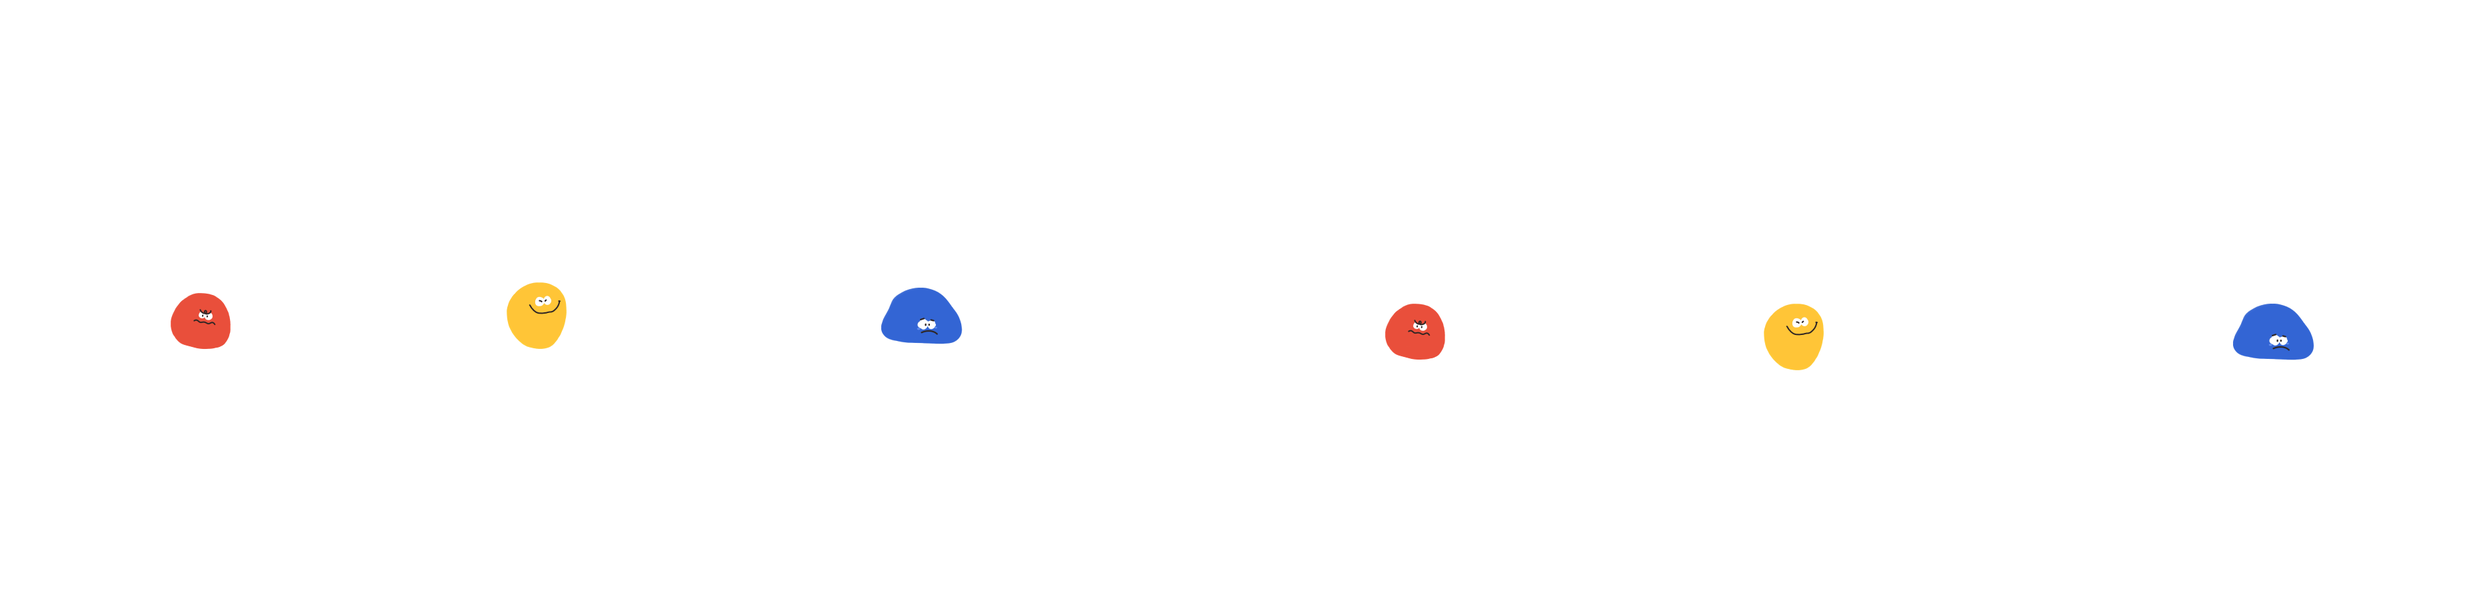
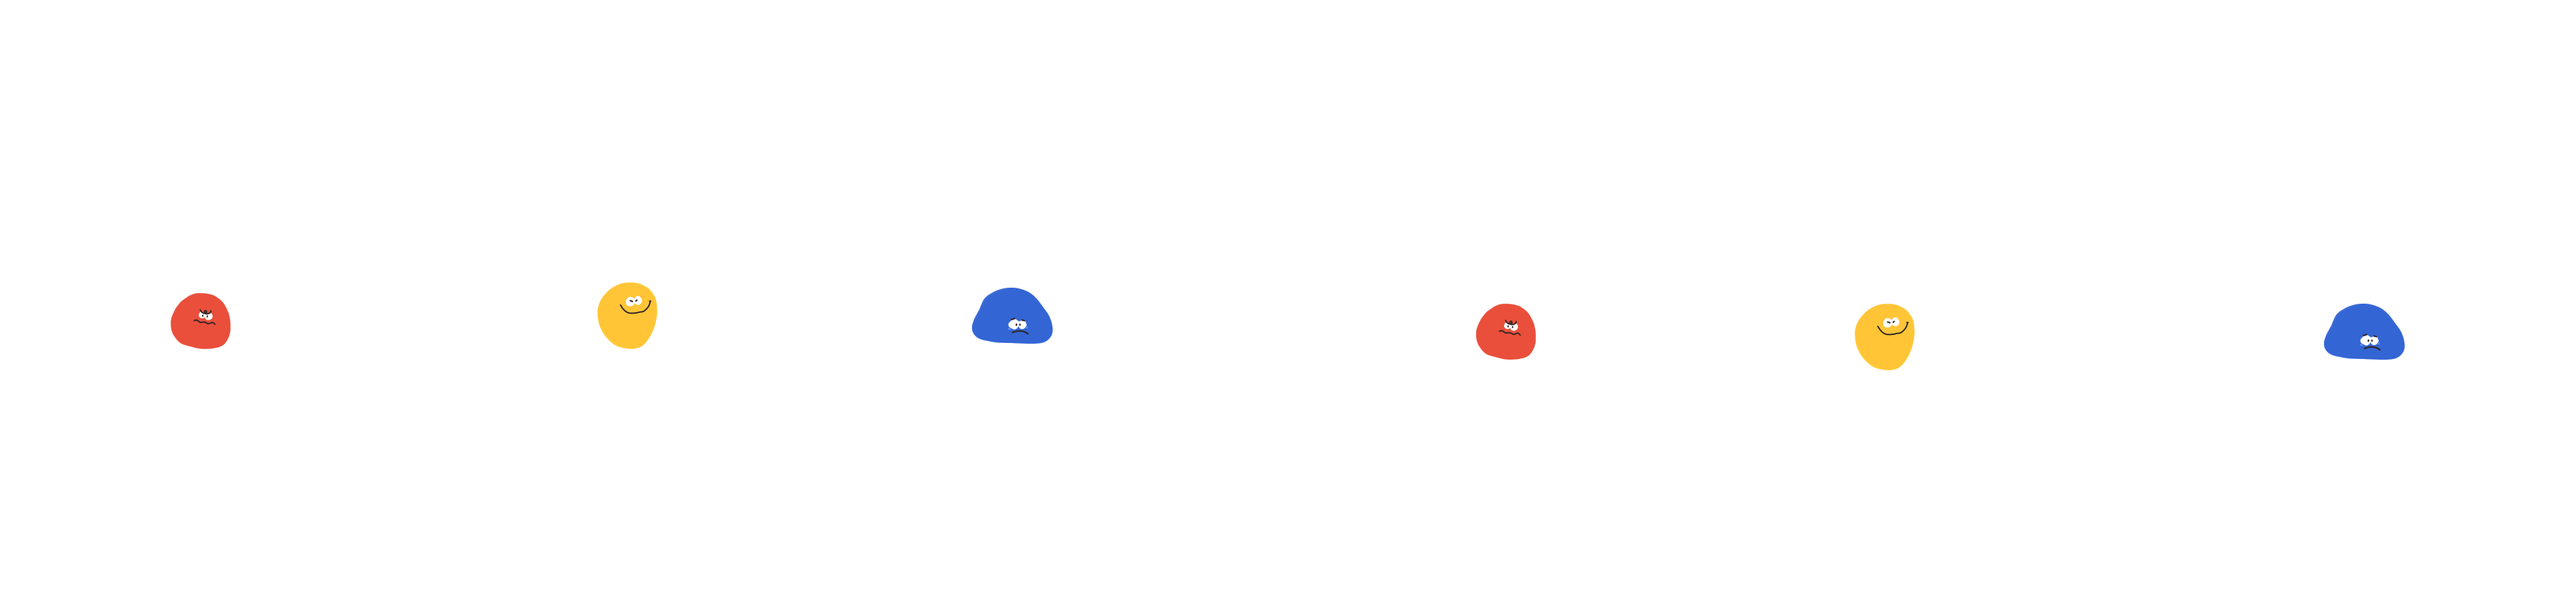
design: 반응형 웹 css 위치 변경 추가

diff --git a/scy/css/index.css b/scy/css/index.css
@@ -1,7 +1,9 @@
+@import url('https://fonts.googleapis.com/css2?family=Ysabeau+Office:wght@400;500;600;700;800;900;1000&display=swap');
 * {
     padding:0;
     margin:0;
     box-sizing: border-box;
+    font-family: 'Ysabeau Office', sans-serif;
 }
 
 body {
@@ -47,34 +49,35 @@ body {
 
 #pleasure{
     position: absolute;
-    left: 33%;
+    left: 33vw;
     top: 29%;
     z-index: 3;
 }
 
 #angry {
     position: absolute;
-    right: 38%;
+    right: 34vw;
     top: 29%;
     z-index: 2;
 }
 
 #happy {
     position: absolute;
-    left: 27%;
+    left: 27vw;
     top: 46%;
     z-index: 6;
 }
 
 #sad {
     position: absolute;
-    right: 31%;
-    top: 47%;
+    right: 28vw;
+    top: 46%;
+    /* top: 60vh; */
     z-index: 4;
 }
 #proud {
     position: absolute;
-    left: 40%;
+    left: 39vw;
     top: 56%;
     z-index: 5;
 }
@@ -87,23 +90,23 @@ body {
     margin: 0;
     border-radius: 10px;
     left: 25%;
-    top: 43%;
+    top: 45%;
     z-index: 10;
-    animation: start 12s linear 1;
+    animation: start 12s linear 1; 
 }
 
 .start img {
     position: absolute;
     width: 80vh;
     height: auto;
-    left: 6%;
+    left: 2vw;
     top: -15%;
 }
 
 .loading-box {
     position: absolute;
-    left: 29%;
-    top: 37%;
+    left: 28vw;
+    top: 47vh;
     z-index: 9;
 }
 
@@ -124,7 +127,8 @@ body {
     font-size: 35px;
     font-weight: 600;
     line-height: 1.3333;
-    color: rgb(79, 79, 79);
+    /* color: rgb(119, 119, 119); */
+    color: rgb(35, 35, 35);
     animation-name: flicker;
     animation-duration: 1500ms;
     animation-iteration-count: infinite;
@@ -136,7 +140,8 @@ body {
     width: 250px;
     height: 20px;
     border-radius: 100px;
-    background-color: rgb(201, 201, 201);
+    /* background-color: rgb(201, 201, 201); */
+    background-color: #FFE8A3;
     overflow: hidden;
 }
 
@@ -147,7 +152,8 @@ body {
     width: 20px;
     height: 20px;
     border-radius: 100px;
-    background-color: #FFE8A3;
+
+    background-color: rgb(171, 213, 226);
     animation-name: loading-bar;
     animation-duration: 5s;
     animation-iteration-count: infinite;
@@ -237,6 +243,66 @@ body {
     }
 }
 
+@media screen and (min-width: 1500px){
+    .start img{
+        left: 4vw;
+        top: -15%;
+    }
+    
+}
+
+@media screen and (min-width: 1500px){
+    #pleasure{
+        left: 35vw;
+        top: 29%;
+    }
+    
+}
+
+@media screen and (min-width: 1500px){
+    #angry{
+        left: 45vw;
+        top: 29%;
+    }
+    
+}
+@media screen and (min-width: 1500px){
+    #sad{
+        left: 49vw;
+        top: 44%;
+    }
+    
+}
+
+@media screen and (min-width: 1500px){
+    #happy{
+        left: 31vw;
+        top: 44%;
+    }
+}
+
+@media screen and (min-width: 1500px){
+    #proud{
+        left: 40vw;
+        top: 54%;
+    }
+}
+
+@media screen and (min-width: 1500px){
+    .loading-box {
+        left: 32vw;
+        top: 40%;
+    }
+
+}
+
+@media screen and (max-width: 768px){
+    .box {
+        top: 50%;
+    }
+    
+}
+
 @media screen and (max-width: 768px){
     #pleasure{
     left: 40%;
@@ -272,7 +338,7 @@ body {
 @media screen and (max-width: 768px){
     #happy{
         left: 34%;
-        top: 47%;
+        top: 45%;
         z-index: 6;
     }
 }
@@ -287,10 +353,9 @@ body {
 
 @media screen and (max-width: 768px){
     .start {
-    width: 45vw;
-    height: 8vh;
-    top: 42%;
-    z-index: 10;
+        width: 45vw;
+        height: 8vh;
+        top: 42%;
     }
 }
 
@@ -298,8 +363,8 @@ body {
     .start img {
         width: 45vw;
         height: auto;
-        left: 3%;
-        top: 0;
+        left: 1vw;
+        top: 4%;
     }
 }
 @media screen and (max-width: 768px){

diff --git a/scy/html/index.html b/scy/html/index.html
@@ -17,7 +17,7 @@
                 <!-- 로딩 -->
         <div class="loading-box">
             <div class="loading">
-                <h1 class="loading-title">Loading. . .</h1>
+                <h1 class="loading-title">Loading . .</h1>
                 <div class="progress-bar" aria-hidden="true">
                     <span class="progress-bar-gauge"></span>
                 </div>

diff --git a/scy/css/main-index.css b/scy/css/main-index.css
@@ -1,10 +1,11 @@
 @import url('https://fonts.googleapis.com/css2?family=Ysabeau+Office:wght@400;500;600;700;800;900;1000&display=swap');
-/* font-family: 'Ysabeau Office', sans-serif; */
-/* weight: 400;500;600;700;800;900 */
+
+
 * {
     padding:0;
     margin:0;
     box-sizing: border-box;
+    font-family: 'Ysabeau Office', sans-serif;
   }
 
 body {
